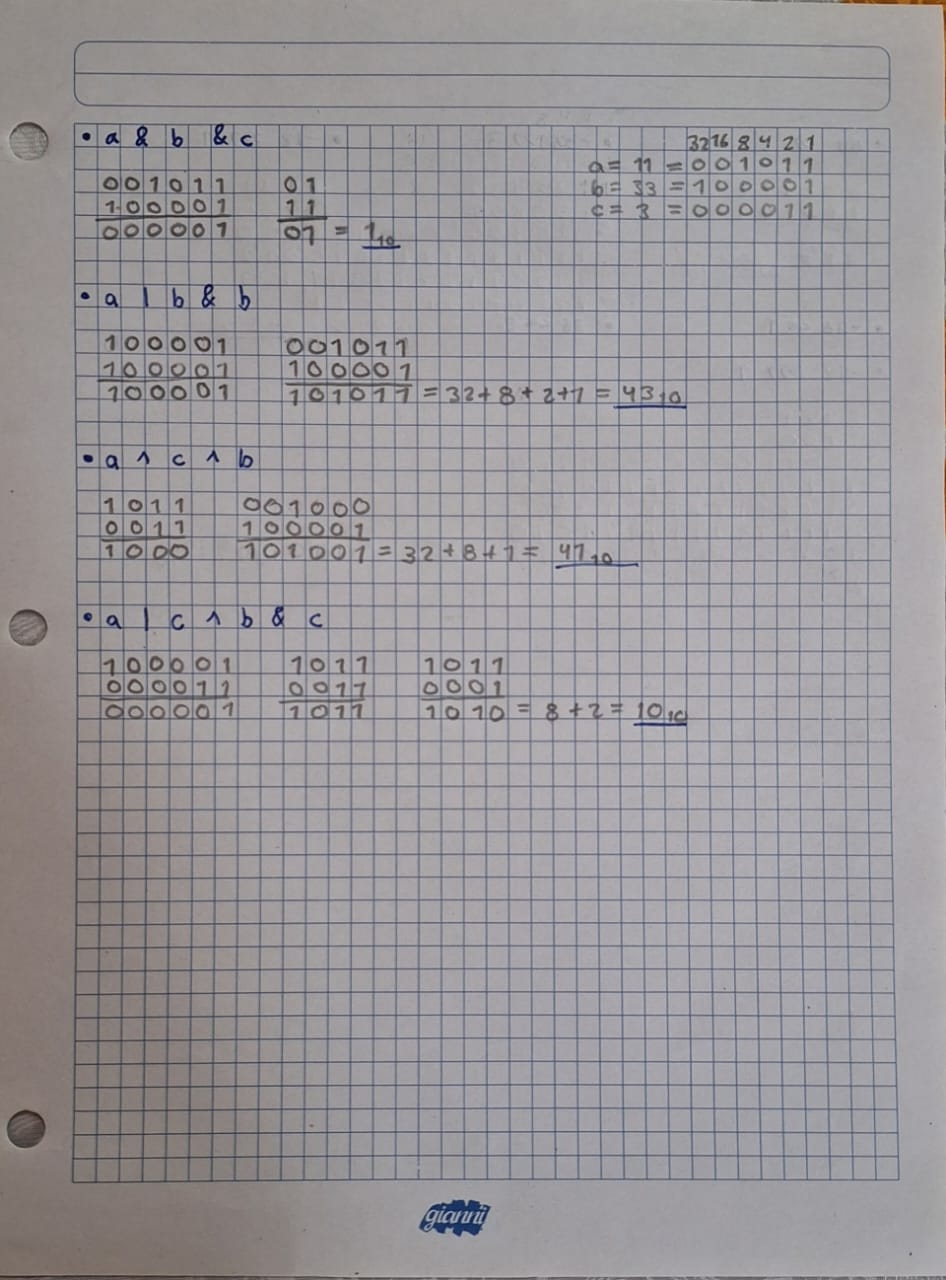
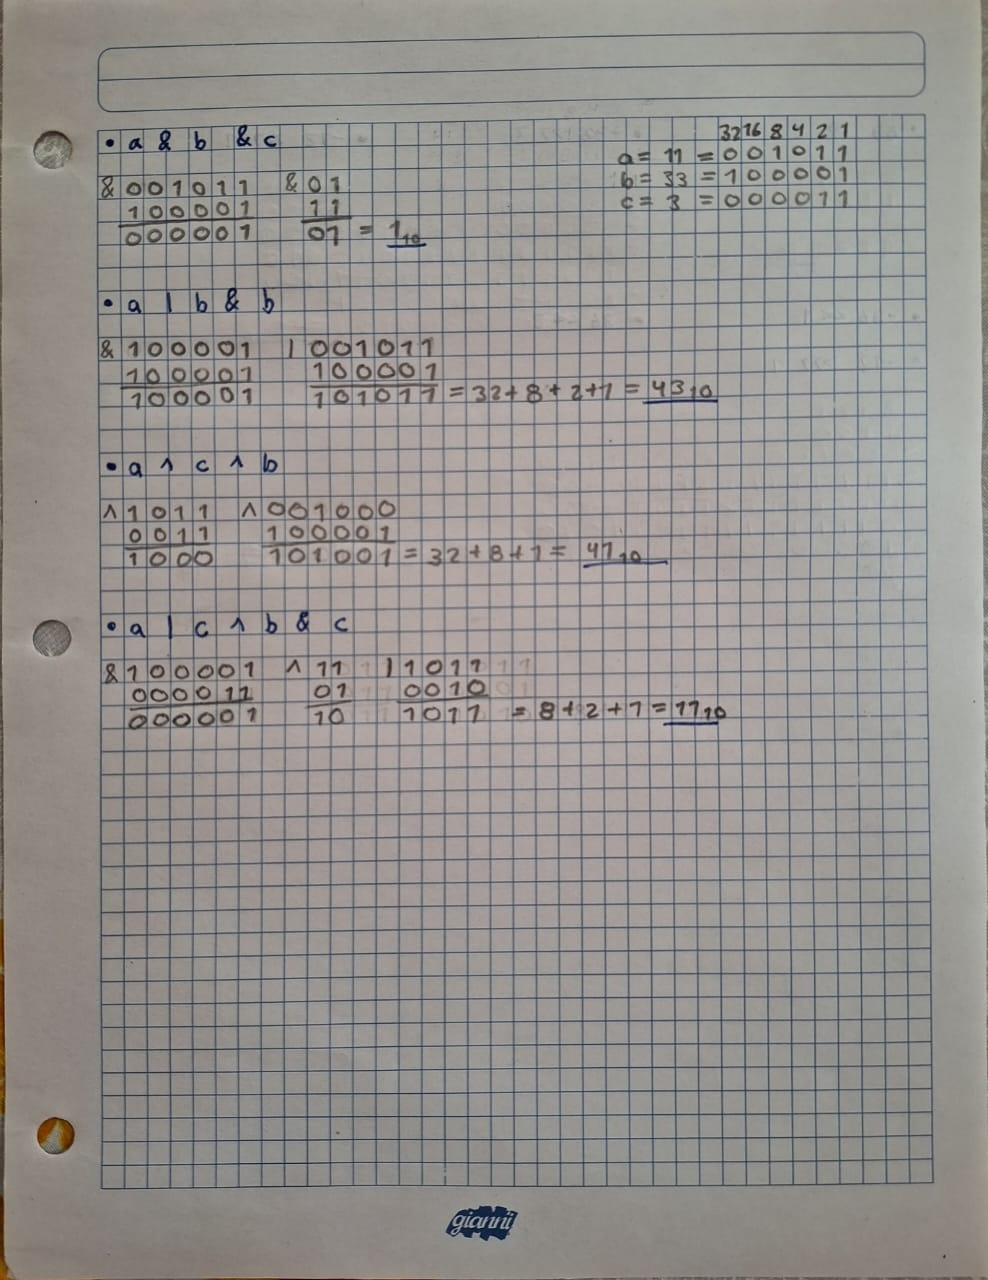
T2 POO F

diff --git a/T2_POO/T2_POO.tex b/T2_POO/T2_POO.tex
@@ -65,7 +65,7 @@
             \item $a$ \& $b$ \& $c = 1$
             \item $a$ $\mid$ $b$ \& $b = 43$ 
             \item $a$ $^{\wedge}$ $c$ $^{\wedge}$ $b = 41$
-            \item $a$ $\mid$ $c$ $^{\wedge}$ $b$ $\&$ $c = 10 $
+            \item $a$ $\mid$ $c$ $^{\wedge}$ $b$ $\&$ $c = 11$
         \end{itemize}
         \begin{figure*}[ht]
             \includegraphics[width = 10cm, center]{E2.jpg}
@@ -76,7 +76,7 @@
         \begin{itemize}[leftmargin=*]
             \item $13 \gg 2 = 3$
             \item $-36 \gg 3 = -5$
-            \item $-12 \gg> 1 = -32762$
+            \item $-12 \gg> 1 = -32774$
             \item $-36 \ll 1 = -72$ 
             \item $36 \ll 2 = 144$
         \end{itemize}
